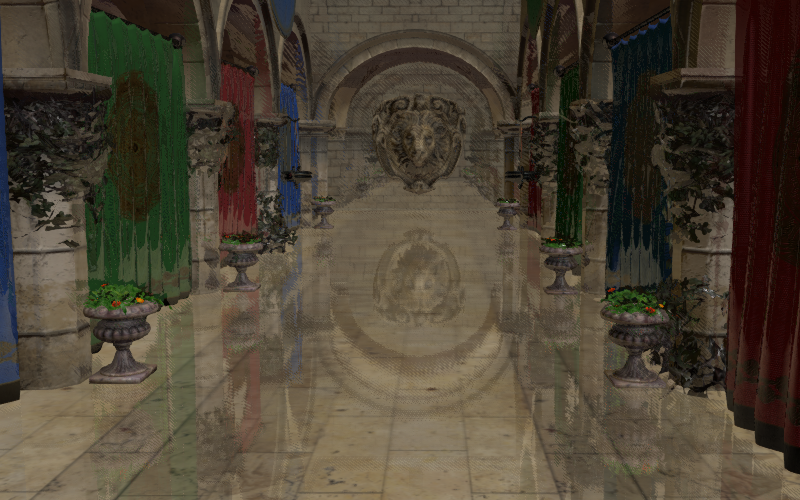
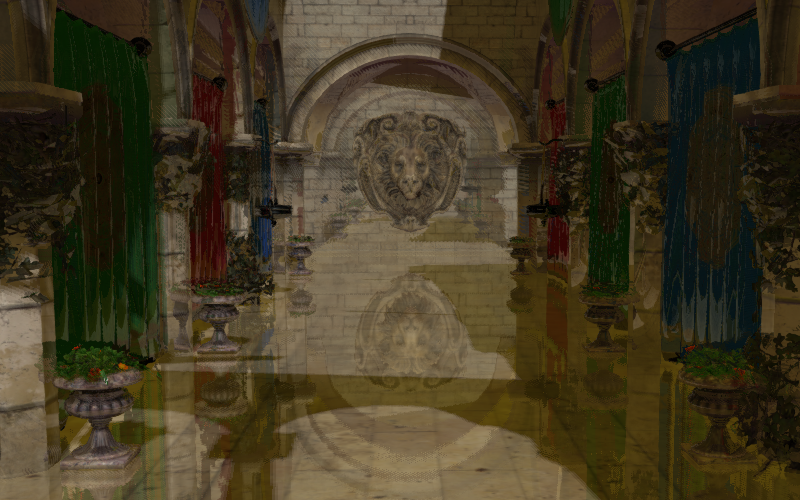
add shadows

diff --git a/screenSpaceReflectionsPass/index.html b/screenSpaceReflectionsPass/index.html
@@ -103,17 +103,17 @@
 
 
 				// Lights
-				scene.add( new THREE.HemisphereLight( 0xFFC107, 0x552233, 0.2 ) );
+				scene.add( new THREE.HemisphereLight( 0xFFC107, 0x552233, 0.4 ) );
 
-				var directionalLight = new THREE.DirectionalLight( 0xffffff, 1 );
-				directionalLight.position.set( 50, 100, 50 );
+				directionalLight = new THREE.DirectionalLight( 0xffffff, 1 );
+				directionalLight.position.set( 30, 200, 230 );
 				directionalLight.castShadow = true;
 
 				var shadowCam = directionalLight.shadow.camera;
-				shadowCam.left = shadowCam.bottom = -15;
-				shadowCam.right = shadowCam.top = 15;
-				directionalLight.shadow.mapSize.width = 1024;
-				directionalLight.shadow.mapSize.height = 1024;
+				shadowCam.left = shadowCam.bottom = -400;
+				shadowCam.right = shadowCam.top = 400;
+				directionalLight.shadow.mapSize.width = 2048;
+				directionalLight.shadow.mapSize.height = 2048;
 				scene.add( directionalLight );
 
 
@@ -126,6 +126,11 @@
 						o.position.y = -20;
 						o.rotation.set(0, Math.PI / 2, 0);
 						o.scale.multiplyScalar(30);
+
+						o.traverse(c => {
+							c.castShadow = true;
+							c.receiveShadow = true;
+						})
 						scene.add(o);
 					}
 				);
